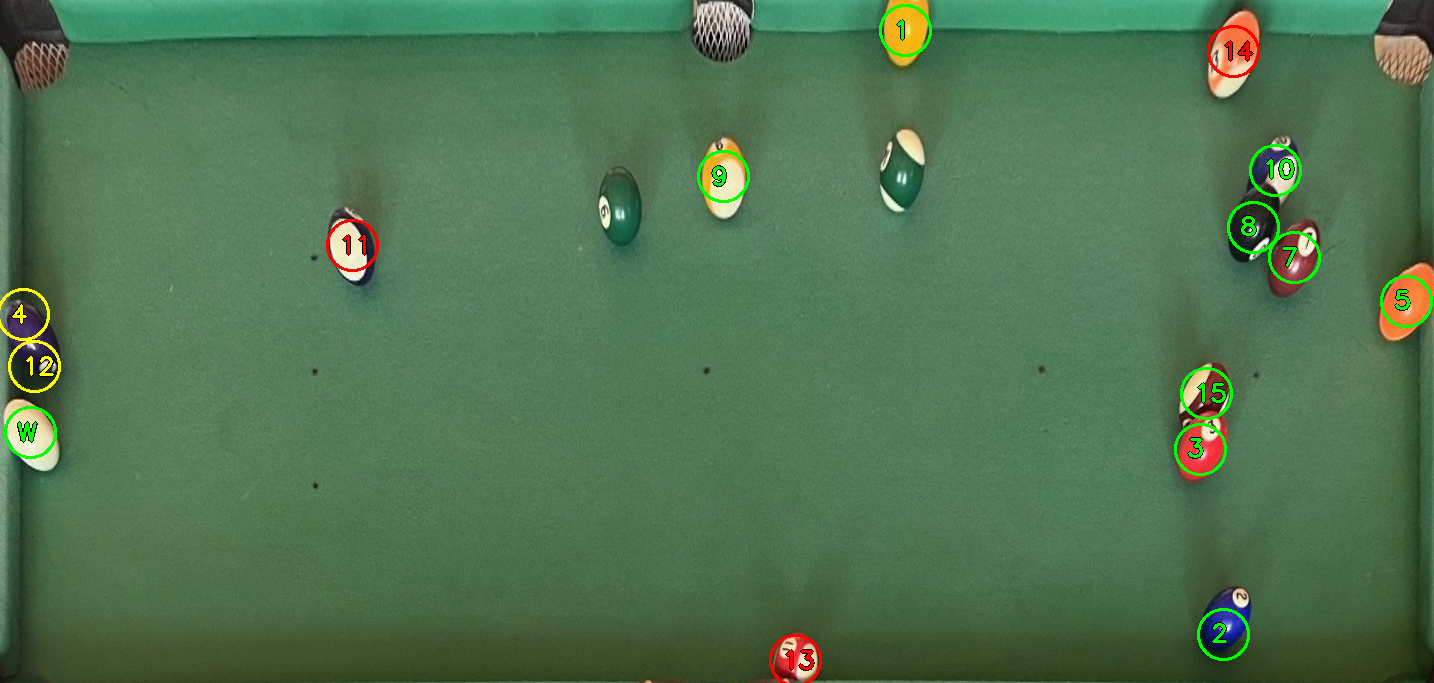
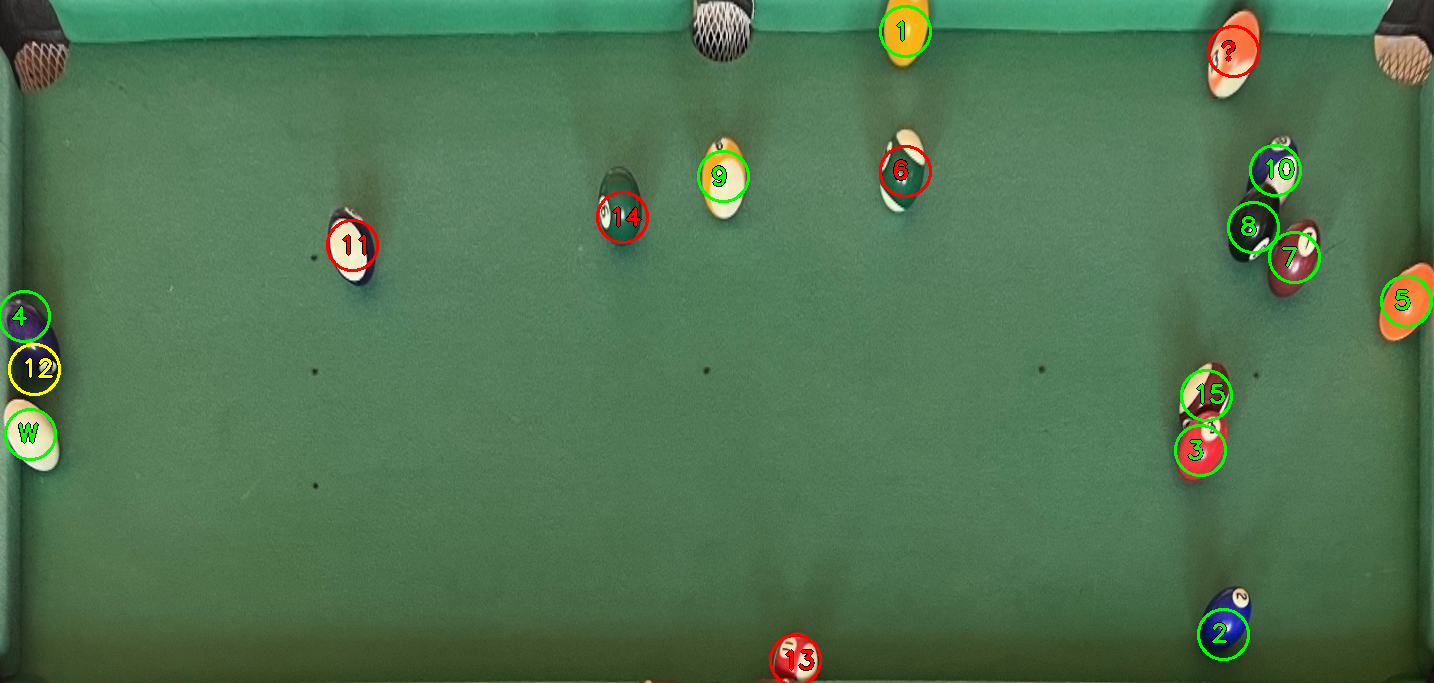
Final update and saves all the images and calculates the Errors and other matrices with increased accuracy

diff --git a/MyApplication.cpp b/MyApplication.cpp
@@ -12,15 +12,19 @@
 #define MAKE_FOLDER(p) mkdir(p, 0777)
 #endif
 
-// Parameters are same for all images
-const int TABLE_W = 1434;    // table width in mm, columns of image
-const int TABLE_H = 683;     // table height in mm, rows of imageint HUE_LOW = 40, HUE_HIGH = 90;   // green cloth, in OpenCV hue units (0-180)
+// Parameters these are ordinary variables 
+const int TABLE_W = 1434;      // table width in mm, so the columns of the image
+const int TABLE_H = 683;       // table height in mm, so the rows of the image
 int HUE_LOW = 40, HUE_HIGH = 90;   // green cloth, in OpenCV hue units (0-180)
 int SAT_LOW = 50;                  // less saturated than this is not cloth
+int SAT_OFFSET = 30;               // cloth saturation limit = median cloth saturation of THIS image + this
+int EDGE_MARGIN = 50;              // the saturation test is only used this far inside the table (cushions are saturated too)
 int VAL_LOW = 60;                  // darker than this is not cloth (dark green balls, shadows)
 int KERNEL_SIZE = 7;               // size of the open/close element in pixels
 int MIN_BLOB_AREA = 800;           // smaller blobs are noise
-int BALL_AREA = 2500;              // typical area of one ball in the warped image
+int BALL_AREA = 2500;              // fallback only; the real ball area is measured from each image
+int MAX_BALLS_PER_BLOB = 16;       // there are only 16 balls, so a blob can never be more than that
+int ROUND_MIN_PERCENT = 85;        // area / area of smallest enclosing circle, in %. Single balls are round
 int POCKET_RADIUS = 75;            // ignore blobs this close to a pocket
 int PATCH_RADIUS = 18;             // pixels around each ball centre used for the features
 int HUE_BINS = 12;                 // hue histogram size
@@ -53,6 +57,25 @@ Mat findBallMask(const Mat& table, bool clean = true)
     Mat hsv, cloth, mask;
     cvtColor(table, hsv, COLOR_BGR2HSV);
     inRange(hsv, Scalar(HUE_LOW, SAT_LOW, VAL_LOW), Scalar(HUE_HIGH, 255, 255), cloth);
+    // Dark green balls (6, 14) have the same hue as the cloth but are more saturated.
+    // Inside the playing area, anything too saturated is NOT cloth. Near the cushions we skip this test.
+    Mat inner = Mat::zeros(cloth.size(), CV_8UC1);
+    inner(Rect(EDGE_MARGIN, EDGE_MARGIN, cloth.cols - 2 * EDGE_MARGIN, cloth.rows - 2 * EDGE_MARGIN)) = 255;
+    vector<Mat> ch;
+    split(hsv, ch);                                   // ch[1] = saturation
+    vector<uchar> sats;                               // saturation of the cloth pixels in the middle of the table
+    for (int r = 0; r < cloth.rows; r += 2)
+        for (int c = 0; c < cloth.cols; c += 2)
+            if (cloth.at<uchar>(r, c) && inner.at<uchar>(r, c)) sats.push_back(ch[1].at<uchar>(r, c));
+    if (!sats.empty())
+    {
+        nth_element(sats.begin(), sats.begin() + sats.size() / 2, sats.end());
+        int cap = sats[sats.size() / 2] + SAT_OFFSET;       // learned from this image, not a fixed number
+        Mat too_saturated;
+        inRange(hsv, Scalar(0, cap + 1, 0), Scalar(179, 255, 255), too_saturated);
+        bitwise_and(too_saturated, inner, too_saturated);
+        cloth = cloth - too_saturated;                      // those pixels are not cloth
+    }
     mask = 255 - cloth;
     if (clean)
     {
@@ -73,10 +96,33 @@ bool nearPocket(Point2f p)
 }
 
 // One centre (column, row) per ball. If split_touching is true, big blobs are split with k-means
+// How round is a blob? 1.0 = perfect circle. Two touching balls (peanut) score lower.
+double roundness(const vector<Point>& contour)
+{
+    Point2f c; float r;
+    minEnclosingCircle(contour, c, r);
+    return contourArea(contour) / (CV_PI * r * r);
+}
+
 vector<Point2f> detectBalls(const Mat& mask, bool split_touching)
 {
     vector<vector<Point>> contours;
     findContours(mask.clone(), contours, RETR_EXTERNAL, CHAIN_APPROX_SIMPLE);
+
+    // Step 1: measure the one-ball area from this image = median area of the blobs that look like single balls
+    vector<double> single_areas;
+    for (size_t i = 0; i < contours.size(); i++)
+    {
+        double area = contourArea(contours[i]);
+        if (area > 0.6 * BALL_AREA && area < 1.4 * BALL_AREA && roundness(contours[i]) * 100 >= ROUND_MIN_PERCENT)
+            single_areas.push_back(area);
+    }
+    double ball_area = BALL_AREA;
+    if (single_areas.size() >= 3)
+    {
+        sort(single_areas.begin(), single_areas.end());
+        ball_area = single_areas[single_areas.size() / 2];
+    }
 
     vector<Point2f> centres;
     for (size_t i = 0; i < contours.size(); i++)
@@ -84,8 +130,16 @@ vector<Point2f> detectBalls(const Mat& mask, bool split_touching)
         double area = contourArea(contours[i]);
         if (area < MIN_BLOB_AREA) continue;
 
-        int count = split_touching ? (int)floor(area / BALL_AREA + 0.5) : 1;
+        // Step 2: round blobs that are not too big = one ball. Otherwise divide by the ball area, with a cap
+        int count = 1;
+        if (split_touching)
+        {
+            bool round_enough = roundness(contours[i]) * 100 >= ROUND_MIN_PERCENT;
+            if (!(round_enough && area < 1.7 * ball_area))
+                count = (int)floor(area / ball_area + 0.5);
+        }
         if (count < 1) count = 1;
+        if (count > MAX_BALLS_PER_BLOB) count = MAX_BALLS_PER_BLOB;
 
         if (count == 1)
         {
@@ -515,6 +569,9 @@ void saveParameters()
     file << "Table size (mm): " << TABLE_W << " x " << TABLE_H << "\n";
     file << "Cloth hue range: " << HUE_LOW << " to " << HUE_HIGH << " (0-180)\n";
     file << "Minimum saturation for cloth: " << SAT_LOW << "\n";
+    file << "Cloth saturation limit = median + " << SAT_OFFSET << "\n";
+    file << "Round blob threshold (%): " << ROUND_MIN_PERCENT << ", max balls per blob: " << MAX_BALLS_PER_BLOB << "\n";
+    file << "Edge margin for that test: " << EDGE_MARGIN << "\n";
     file << "Minimum brightness for cloth: " << VAL_LOW << "\n";
     file << "Open/close element size: " << KERNEL_SIZE << "\n";
     file << "Minimum blob area: " << MIN_BLOB_AREA << "\n";
@@ -586,6 +643,9 @@ void MyApplication()
     {
         runSweep("VAL_LOW", VAL_LOW, { 20, 40, 60, 80, 100, 120 }, pool_image, pool_files);
         runSweep("SAT_LOW", SAT_LOW, { 20, 35, 50, 65, 80, 100 }, pool_image, pool_files);
+        runSweep("ROUND_MIN_PERCENT", ROUND_MIN_PERCENT, { 60, 70, 80, 85, 90, 95 }, pool_image, pool_files);
+        runSweep("SAT_OFFSET", SAT_OFFSET, { 15, 20, 30, 40, 60, 255 }, pool_image, pool_files);
+        runSweep("EDGE_MARGIN", EDGE_MARGIN, { 0, 20, 35, 50, 65, 80 }, pool_image, pool_files);
         runSweep("HUE_LOW", HUE_LOW, { 20, 30, 40, 50, 60 }, pool_image, pool_files);
         runSweep("HUE_HIGH", HUE_HIGH, { 70, 80, 90, 100, 110 }, pool_image, pool_files);
         runSweep("KERNEL_SIZE", KERNEL_SIZE, { 3, 5, 7, 9, 11, 15 }, pool_image, pool_files);
